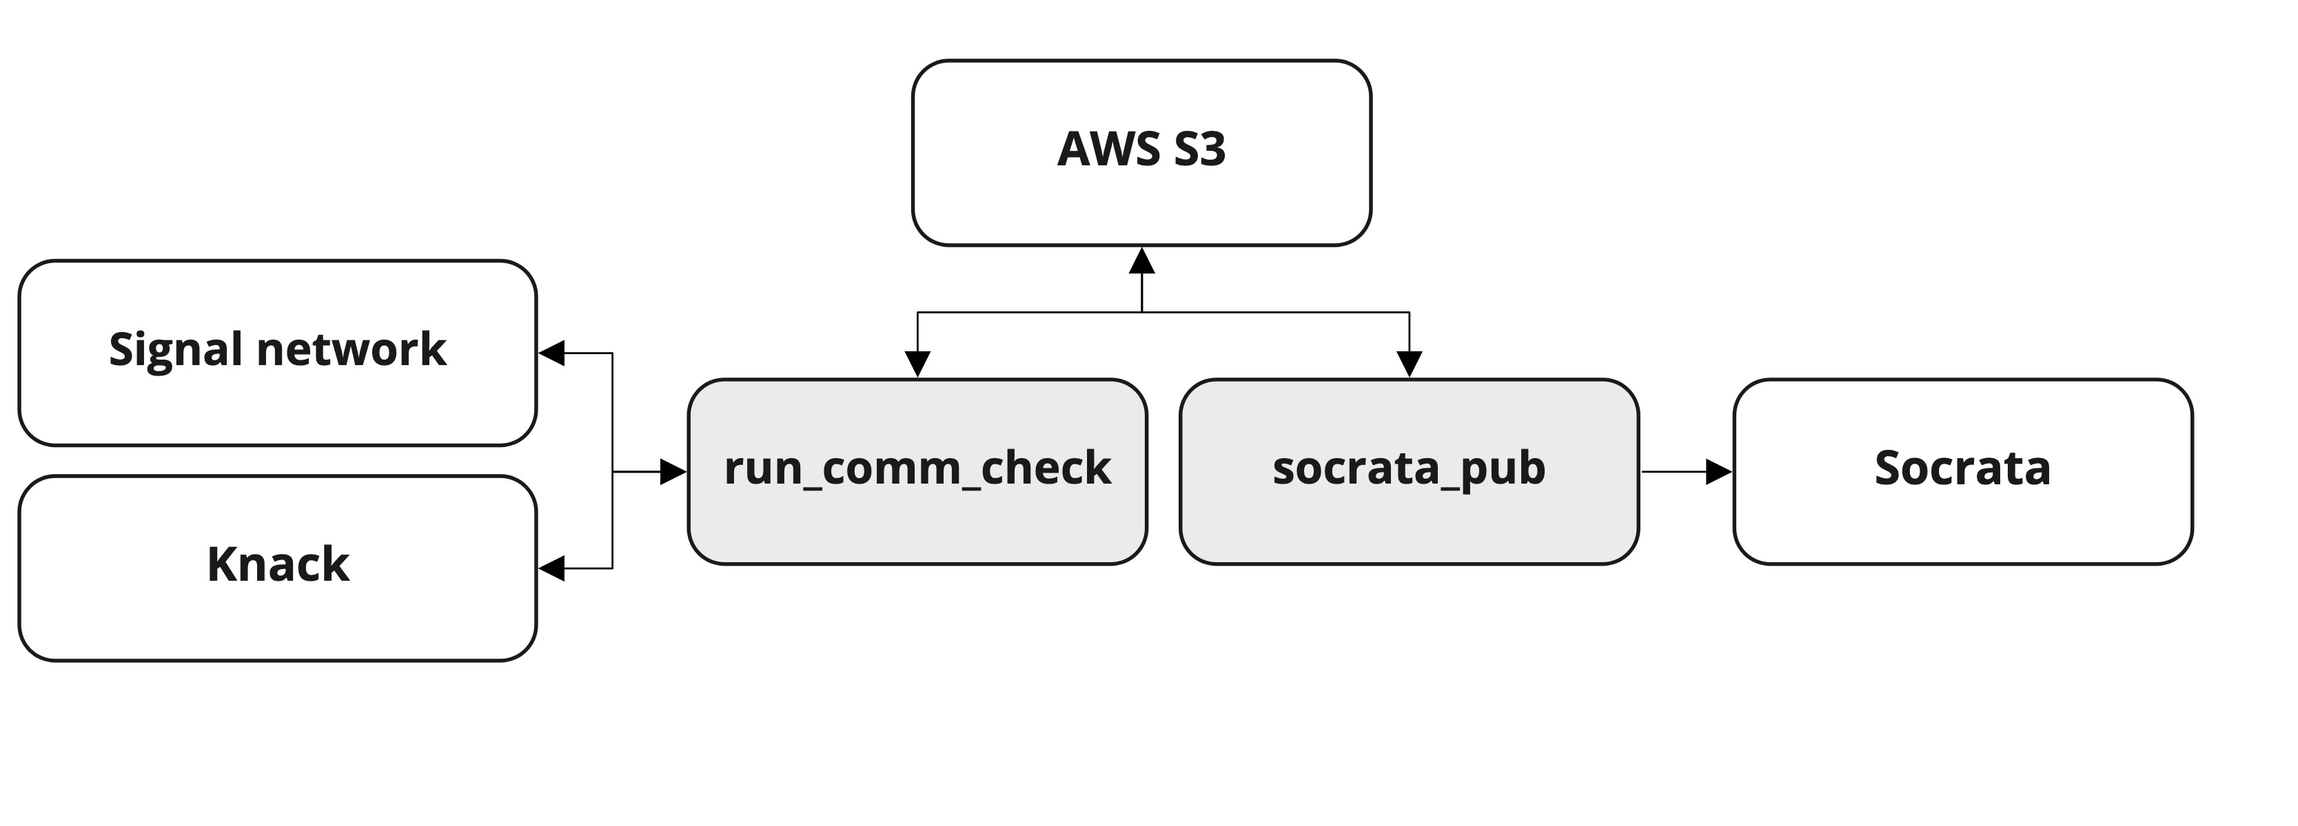
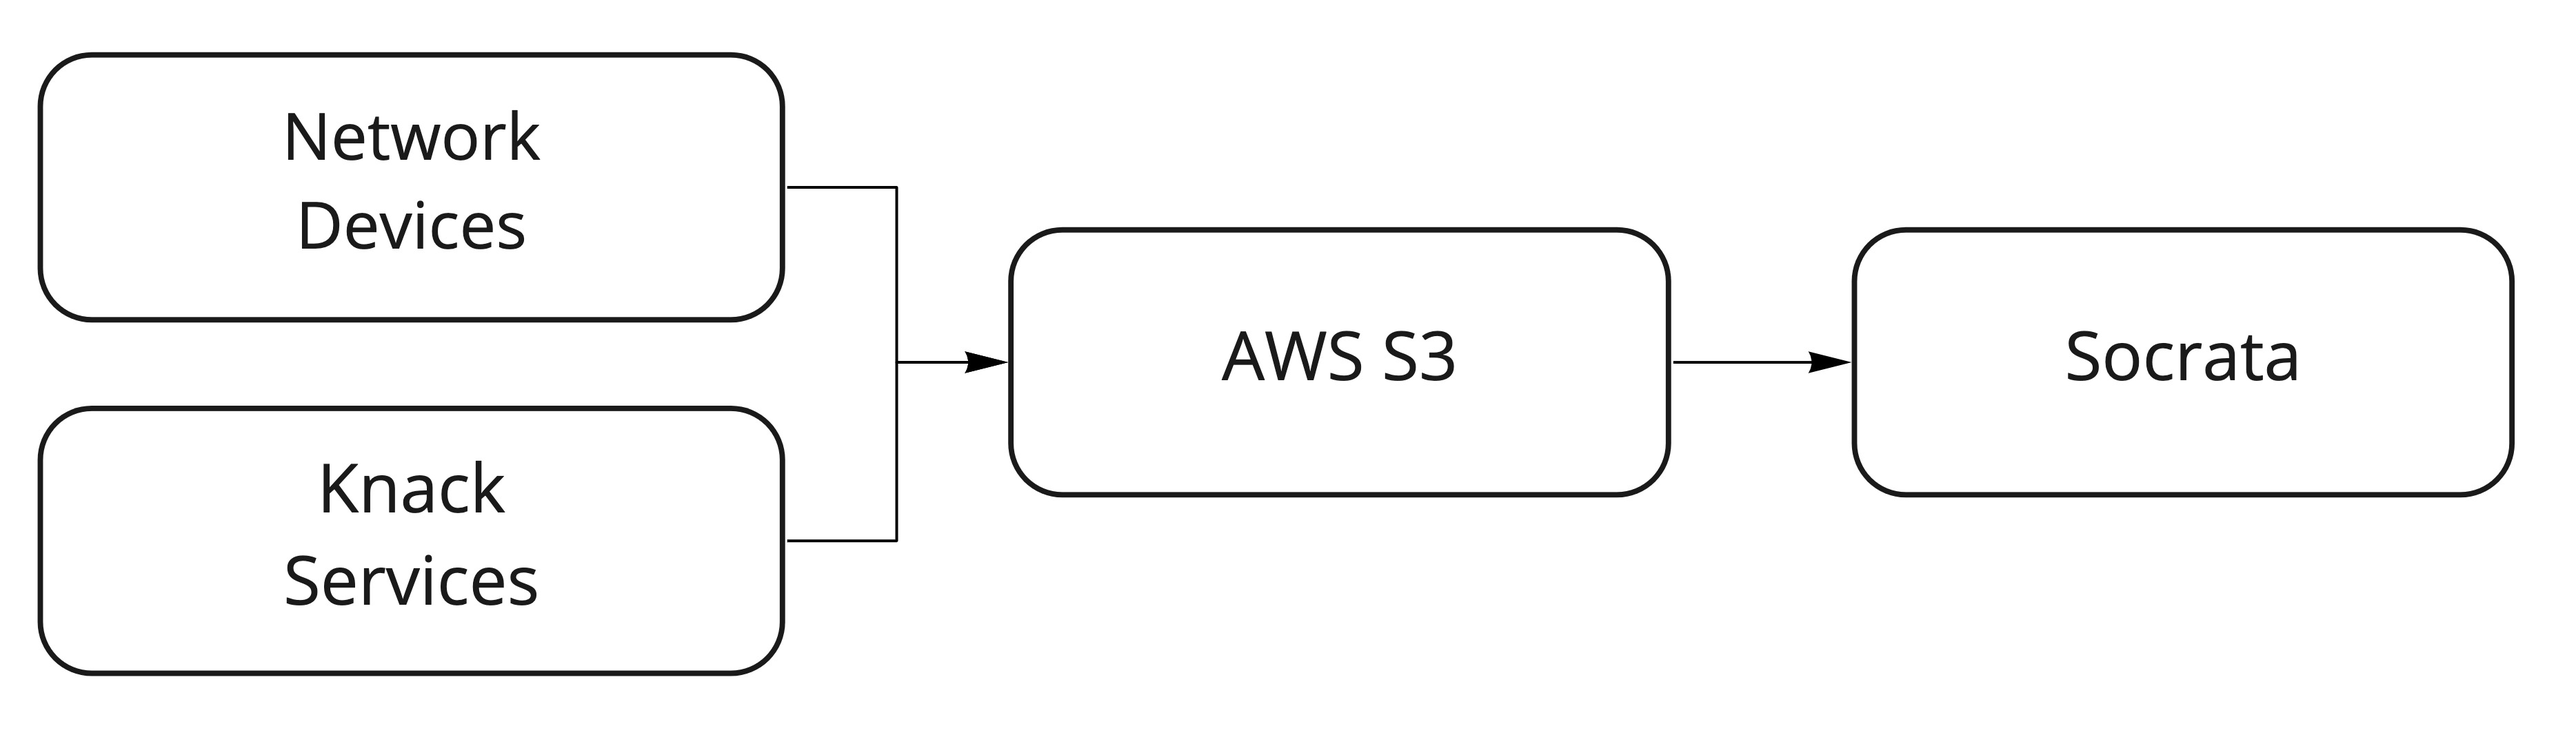
update readme

diff --git a/README.md b/README.md
@@ -20,7 +20,7 @@ The basic flow is managed by two scripts.
 
 ### Device comm status check (`run_comm_check.py`)
 
-1. Device asset records are downloaded from ATD's Knack-based asset management system.
+1. Device asset records are downloaded from ATD's Knack data store via [atd-knack-services](https://github.com/cityofaustin/atd-knack-services).
 2. Devices are pinged asynchronously and the outcome is stored in-memory
 3. Once all devicess have been pinged, the results are uploaded as a JSON blob to S3.
 4. Records are stored in S3 using the path pattern `/<environment>/<device-type>/<year>/<month>/YYYY-MM-DD.json`
@@ -80,8 +80,9 @@ The following environment variables are required:
 - `AWS_ACCESS_KEY_ID`: The AWS access key ID
 - `AWS_SECRET_ACCESS_KEY`: The AWS access key secret
 - `BUCKET`: The S3 bucket name
-- `KNACK_APP_ID`: The Knack App ID of the application you need to access
-- `KNACK_API_KEY`: The Knack API key of the application you need to access
+- `KNACK_APP_ID`: The Knack App ID of source Knack the application (the AMD Data Tracker)
+- `PGREST_JWT`: The PostgREST token for [atd-knack-services](https://github.com/cityofaustin/atd-knack-services) instance
+- `PGREST_ENDPOINT`: The PostgREST endpoint for fetching device records, powered by [atd-knack-services](https://github.com/cityofaustin/atd-knack-services).
 - `SOCRATA_API_KEY_ID`: The Socrata API key of the account you need to access
 - `SOCRATA_API_KEY_SECRET`: The Socrata API key secret
 - `SOCRATA_APP_TOKEN`: The Socrata app token
@@ -120,6 +121,8 @@ $ run_comm_check.py camera -e dev -w 100 -v
 - `-v`, `--verbose`: Sets logger to `DEBUG` level
 
 ### socrata_pub.py
+
+Download files from S3 and published to Socrata.
 
 ```shell
 $ socrata_pub.py camera -e dev --start 2021-01-01 --end 2021-10-31 -v
